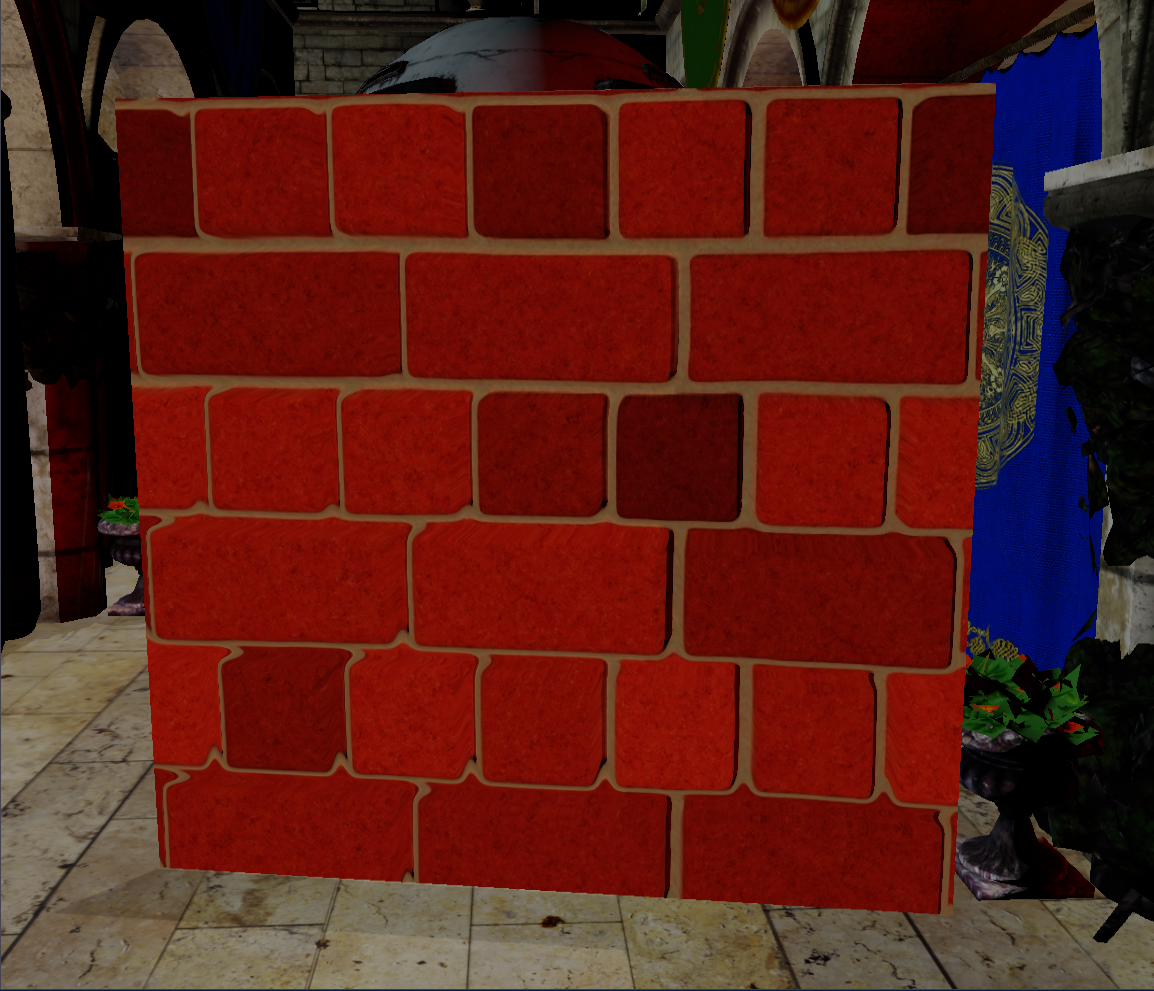
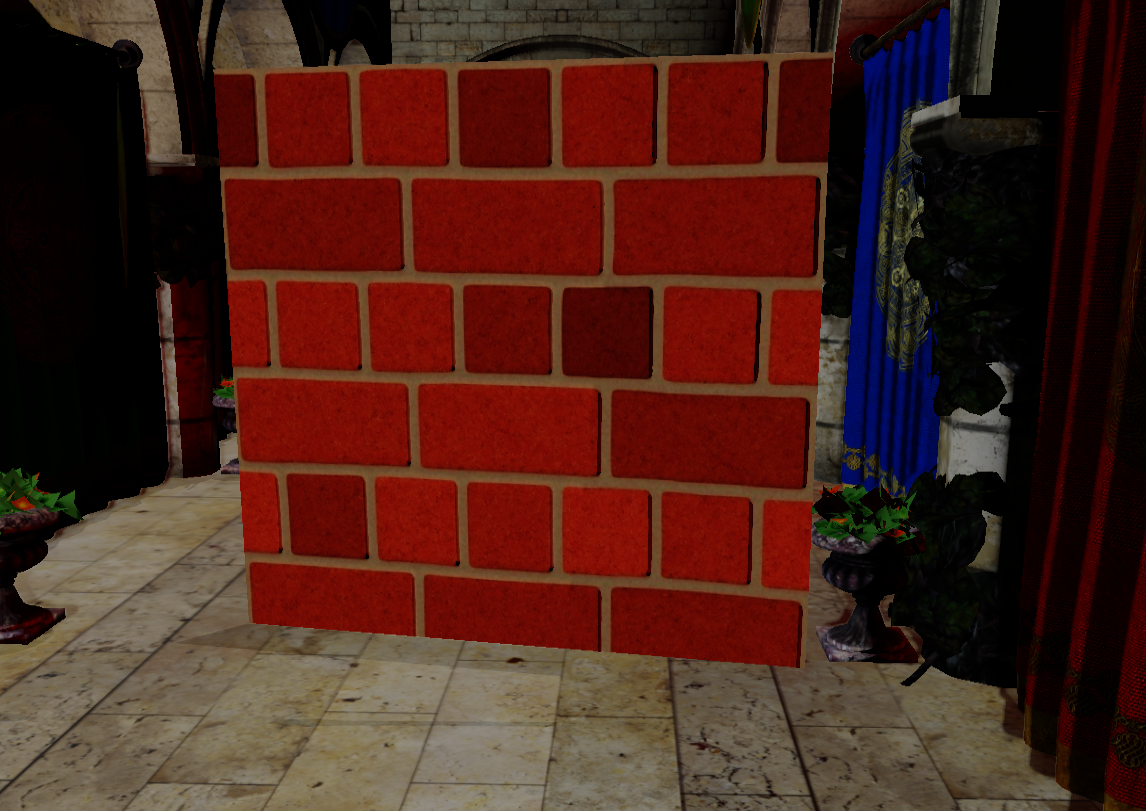
Enable/disable parallax mapping

diff --git a/Editor/Source/Panels/Settings.cpp b/Editor/Source/Panels/Settings.cpp
@@ -44,7 +44,9 @@ namespace Editor
 		}
 
 		ImGui::Text("Render effects");
-		ImGui::Checkbox("Parallax mapping", &m_ParallaxMapping);
+		if (ImGui::Checkbox("Parallax mapping", &m_ParallaxMapping)) {
+			Raito::Renderer::SetParallaxMapping(m_ParallaxMapping);
+		}
 		ImGui::Separator();
 
 		ImGui::Text("General");
